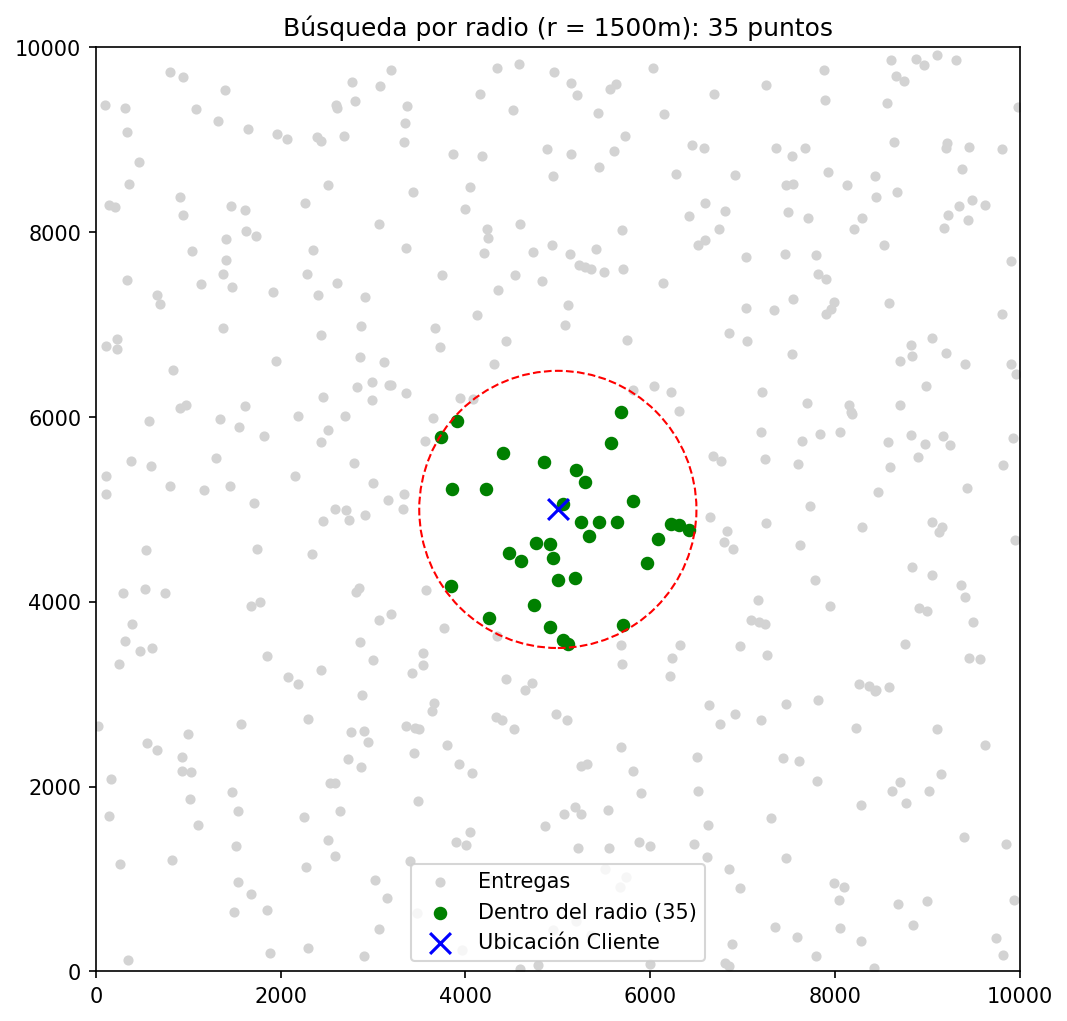
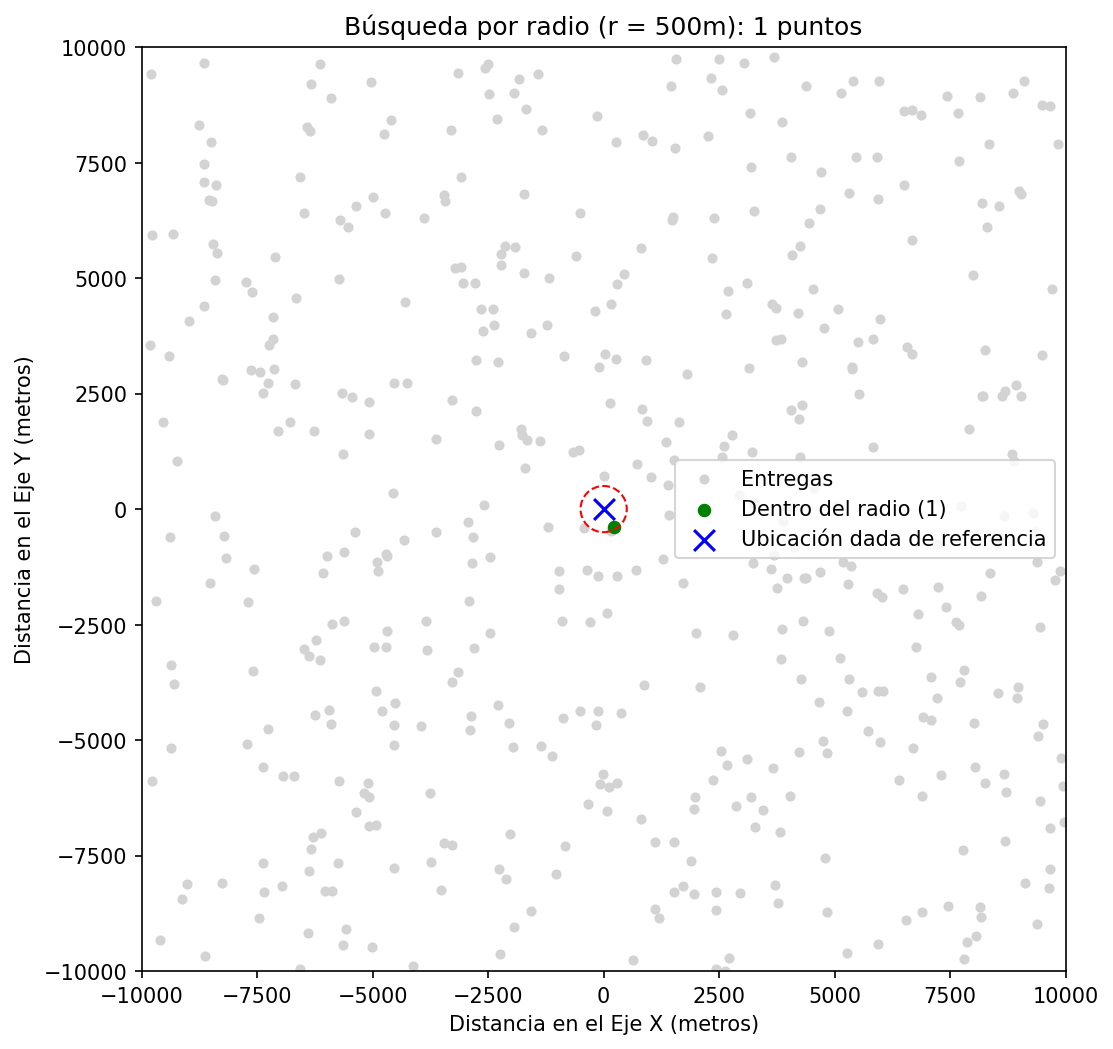
Actualizo test, cambiando valores de tamanhos (mapa, radios y puntos)[200~esperados = [p for p in puntos if p.distancia(ubicacion_dada) <= radio], semilla,

diff --git a/Laboratorio 4/test.py b/Laboratorio 4/test.py
@@ -6,7 +6,7 @@ from matplotlib.patches import Circle
 from hyper_octree import Punto, HiperCubo, HyperOctree
 
 CARPETA_SALIDA = os.path.dirname(os.path.abspath(__file__))
-SEMILLA = None
+SEMILLA = 31102025 # Reproductibilidad de las pruebas
 
 def guardar_figura(fig, nombre):
     """Guarda la figura en la misma carpeta donde está el script test.py."""
@@ -15,10 +15,10 @@ def guardar_figura(fig, nombre):
     print(f"Figura guardada en: {ruta}")
     return ruta
 
-def crear_arbol(k=2, n=500, capacidad=8):
-    limite = HiperCubo([5000] * k, [5000] * k)  # Centro y mitades del hipercubo
+def crear_arbol(k=2, n=500, capacidad=16): # Inicialmente se usan 500 puntos para evitar saturacion en la grafica
+    limite = HiperCubo([0] * k, [10000] * k)  # Centro y mitades del hipercubo, se peden modificar para cambiar tamaño y centro del mapa
     arbol = HyperOctree(limite, capacidad)       # capacidad = tamaño del bucket
-    puntos = [Punto([random.uniform(0, 10000) for _ in range(k)]) for _ in range(n)]
+    puntos = [Punto([random.uniform(-10000, 10000) for _ in range(k)]) for _ in range(n)] # Cambia distribucion de los puntos
     for p in puntos:
         arbol.insertar(p)
     return arbol, puntos
@@ -27,19 +27,24 @@ def test_visual_vecino_mas_cercano():
     if SEMILLA is not None:
         random.seed(SEMILLA)
     arbol, puntos = crear_arbol()
-    cliente = Punto([5000, 5000])
-    mejor_punto, mejor_distancia = arbol.vecino_mas_cercano(cliente)
+    ubicacion_dada = Punto([0, 0]) # Cambia punto de referencia
+    mejor_punto, mejor_distancia = arbol.vecino_mas_cercano(ubicacion_dada)
 
     # Validación
-    esperado = min(puntos, key=lambda p: p.distancia(cliente))
+    esperado = min(puntos, key=lambda p: p.distancia(ubicacion_dada))
     assert mejor_punto is esperado, "El vecino más cercano no coincide con fuerza bruta"
 
     fig, ax = plt.subplots(figsize=(8, 8))
     ax.scatter([p.coordenadas[0] for p in puntos], [p.coordenadas[1] for p in puntos], c='lightgray', s=15, label='Entregas')
-    ax.scatter(*cliente.coordenadas, c='blue', marker='x', s=100, label='Ubicación Cliente')
+    ax.scatter(*ubicacion_dada.coordenadas, c='blue', marker='x', s=100, label='Ubicación de referencia')
     if mejor_punto:
         ax.scatter(*mejor_punto.coordenadas, c='green', s=50, label='Más Cercano')
-        ax.plot([cliente.coordenadas[0], mejor_punto.coordenadas[0]], [cliente.coordenadas[1], mejor_punto.coordenadas[1]], 'g--')
+        ax.plot([ubicacion_dada.coordenadas[0], mejor_punto.coordenadas[0]], [ubicacion_dada.coordenadas[1], mejor_punto.coordenadas[1]], 'g--')
+    ax.set_xlim(-10000 , 10000) # Cambia tamaño del mapa
+    ax.set_ylim(-10000, 10000) # Cambia tamaño del mapa
+    ax.set_xlabel("Distancia en el Eje X (metros)")
+    ax.set_ylabel("Distancia en el Eje Y (metros)")
+    ax.set_aspect('equal')
     ax.set_title(f"Vecino más cercano (Distancia: {mejor_distancia:.2f}m)")
     ax.legend()
     
@@ -50,21 +55,23 @@ def test_visual_busqueda_radio():
     if SEMILLA is not None:
         random.seed(SEMILLA)
     arbol, puntos = crear_arbol()
-    cliente = Punto([5000, 5000])
-    radio = 1500
-    encontrados = arbol.busqueda_radio(cliente, radio)
+    ubicacion_dada = Punto([0, 0]) # Cambia punto de referencia
+    radio = 500
+    encontrados = arbol.busqueda_radio(ubicacion_dada, radio)
 
-    esperados = [p for p in puntos if p.distancia(cliente) <= radio]
+    esperados = [p for p in puntos if p.distancia(ubicacion_dada) <= radio]
     assert set(map(id, encontrados)) == set(map(id, esperados)), \
         "La búsqueda por radio no coincide con fuerza bruta"
 
     fig, ax = plt.subplots(figsize=(8, 8))
     ax.scatter([p.coordenadas[0] for p in puntos], [p.coordenadas[1] for p in puntos], c='lightgray', s=15, label='Entregas')
     ax.scatter([p.coordenadas[0] for p in encontrados], [p.coordenadas[1] for p in encontrados], c='green', s=30, label=f'Dentro del radio ({len(encontrados)})')
-    ax.scatter(*cliente.coordenadas, c='blue', marker='x', s=100, label='Ubicación Cliente')
-    ax.add_patch(Circle(cliente.coordenadas, radio, fill=False, color='red', linestyle='--'))
-    ax.set_xlim(0, 10000)
-    ax.set_ylim(0, 10000)
+    ax.scatter(*ubicacion_dada.coordenadas, c='blue', marker='x', s=100, label='Ubicación dada de referencia')
+    ax.add_patch(Circle(ubicacion_dada.coordenadas, radio, fill=False, color='red', linestyle='--'))
+    ax.set_xlim(-10000, 10000) # Cambia tamaño del mapa
+    ax.set_ylim(-10000, 10000) # Cambia tamaño del mapa
+    ax.set_xlabel("Distancia en el Eje X (metros)")
+    ax.set_ylabel("Distancia en el Eje Y (metros)")
     ax.set_aspect('equal')
     ax.set_title(f"Búsqueda por radio (r = {radio}m): {len(encontrados)} puntos")
     ax.legend()
